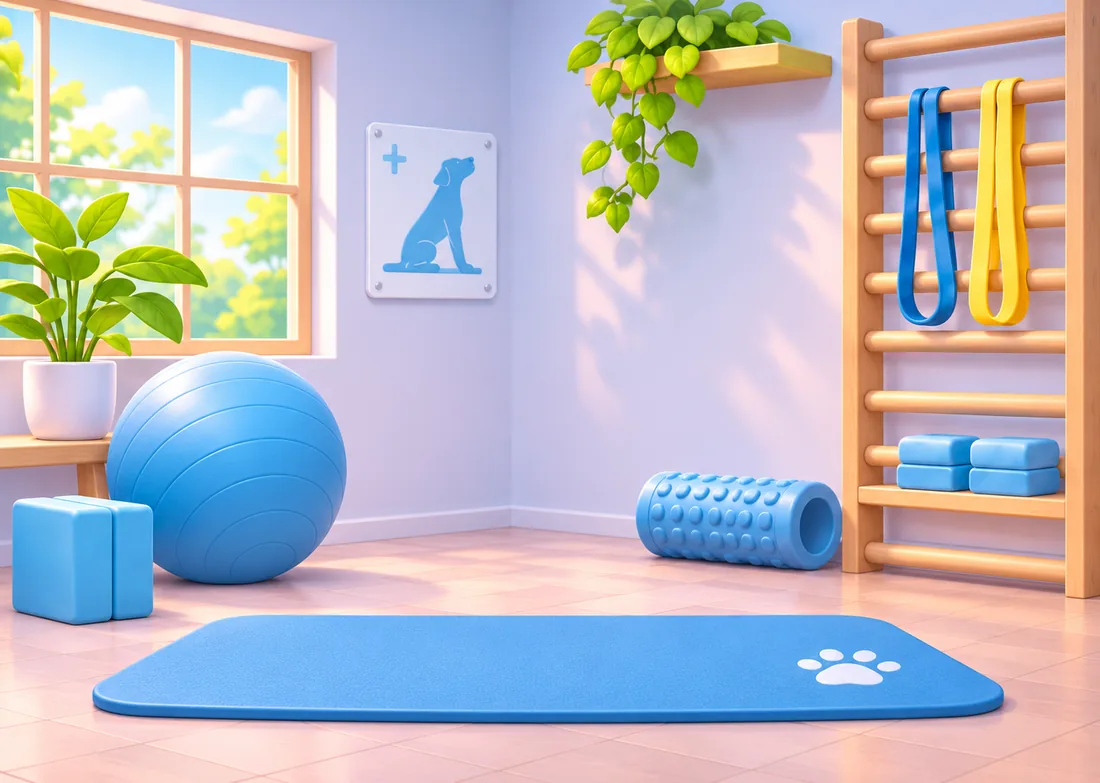
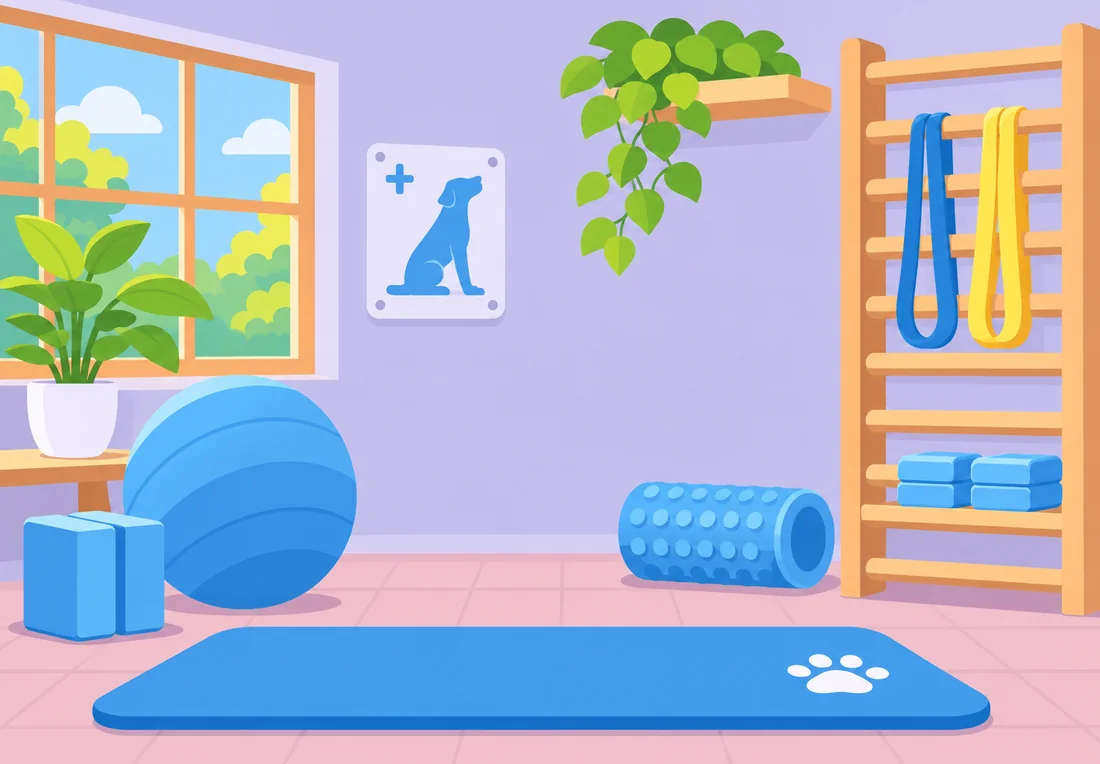
Fondos nuevos en estilo plano
Claude-Session: https://claude.ai/code/session_011QPKVWNjoWcuy4b3mo1GPT

diff --git a/sw.js b/sw.js
@@ -1,4 +1,4 @@
-const V='wolfy-d60260887a';
+const V='wolfy-9e35322669';
 const FILES=["./", "index.html", "manifest.webmanifest", "img/acc_bag.png", "img/acc_band.png", "img/acc_belt.png", "img/acc_bowl.png", "img/acc_goggles.png", "img/acc_hoodie.png", "img/acc_medal.png", "img/acc_shaker.png", "img/acc_sweatband.png", "img/acc_wraps.png", "img/av1.webp", "img/av2.webp", "img/av3.webp", "img/av4.webp", "img/av5.webp", "img/bg_food.webp", "img/bg_food_front.webp", "img/bg_food_morning.webp", "img/bg_food_morning_front.webp", "img/bg_food_night.webp", "img/bg_food_night_front.webp", "img/bg_gym.webp", "img/bg_gym_sunset.webp", "img/bg_pool.webp", "img/bg_rehab.webp", "img/core_back.png", "img/core_front.png", "img/core_side.png", "img/cue_body.png", "img/cue_food.png", "img/cue_month.png", "img/cue_muscle.png", "img/cue_streak.png", "img/db1.png", "img/db2.png", "img/db3.png", "img/db4.png", "img/db5.png", "img/db6.png", "img/fx_glasses.webp", "img/fx_medal.webp", "img/fx_sweatband.webp", "img/hero.jpg", "img/look_champion.png", "img/look_hero.jpg", "img/look_recovery.png", "img/look_strength.png", "img/look_swim.png", "img/look_training.png", "img/pup1.webp", "img/pup2.webp", "img/pup3.webp", "img/pup4.webp", "img/pup5.webp", "img/rw_crown.png", "img/rw_hoodie.png", "img/rw_month.png", "img/rw_shield.png", "img/rw_streak.png", "img/tail1.webp", "img/tail2.webp", "img/tail3.webp", "img/tail4.webp", "img/tail5.webp", "img/wolfy-icon-180.png", "img/wolfy-icon-192.png", "img/wolfy-icon-512.png"];
 self.addEventListener('install',e=>{e.waitUntil(caches.open(V).then(c=>c.addAll(FILES)).then(()=>self.skipWaiting()));});
 self.addEventListener('activate',e=>{e.waitUntil(caches.keys().then(ks=>Promise.all(ks.filter(k=>k!==V).map(k=>caches.delete(k)))).then(()=>self.clients.claim()));});

diff --git a/index.html b/index.html
@@ -10,7 +10,7 @@
 <meta name="theme-color" content="#D0DAE3">
 <title>Wolfy</title>
 <link rel="manifest" href="manifest.webmanifest">
-<script>window.__PWA=true;window.__BUILD="d60260887a";</script>
+<script>window.__PWA=true;window.__BUILD="9e35322669";</script>
 <link rel="apple-touch-icon" sizes="180x180" href="img/wolfy-icon-180.png">
 <link rel="icon" type="image/png" href="img/wolfy-icon-512.png">
 <style>
@@ -2174,7 +2174,7 @@ function sceneImg(scene){
   if (scene==='kitchen') return t < 13*60+30 ? 'bg_food_morning' : t < 20*60+30 ? 'bg_food' : 'bg_food_night';
   return SCENE_IMG[scene];
 }
-const SCENE_POS = {gym:[37,97], pool:[23,99], rehab:[44,96], rest:[44,96], kitchen:[33,79]};
+const SCENE_POS = {gym:[37,97], pool:[34,99], rehab:[44,96], rest:[44,96], kitchen:[30,82]};
 const STAGE_H = [62,68,72,76,80]; // altura de la mascota (% del alto de la escena) por etapa
 const WEARABLE = ['sweatband','goggles','medal'];
 function wornAccs(st, scene){
